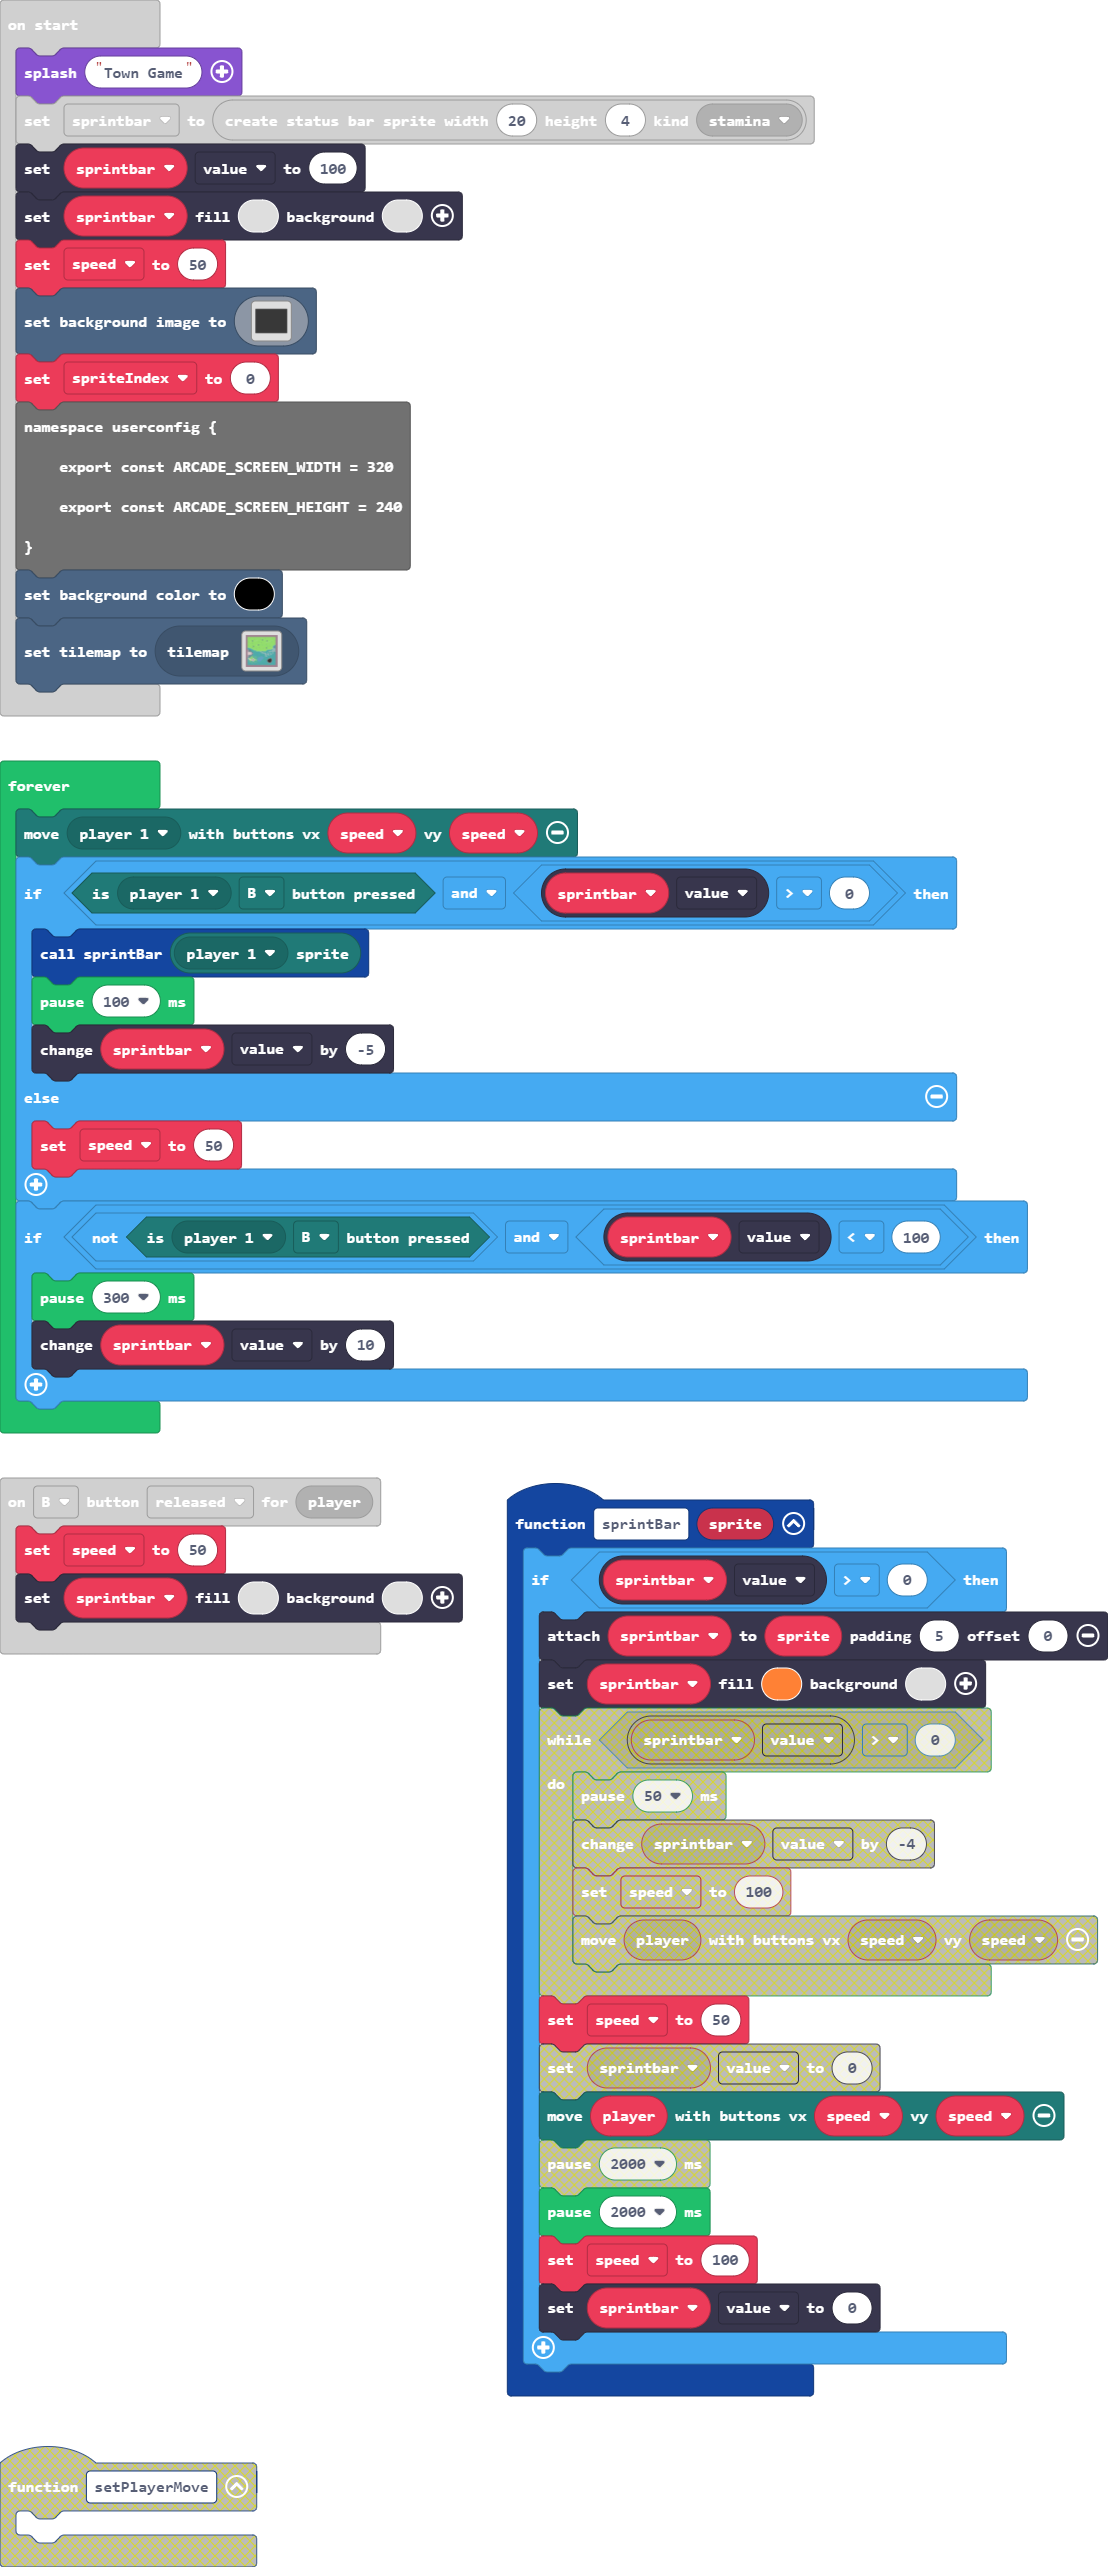
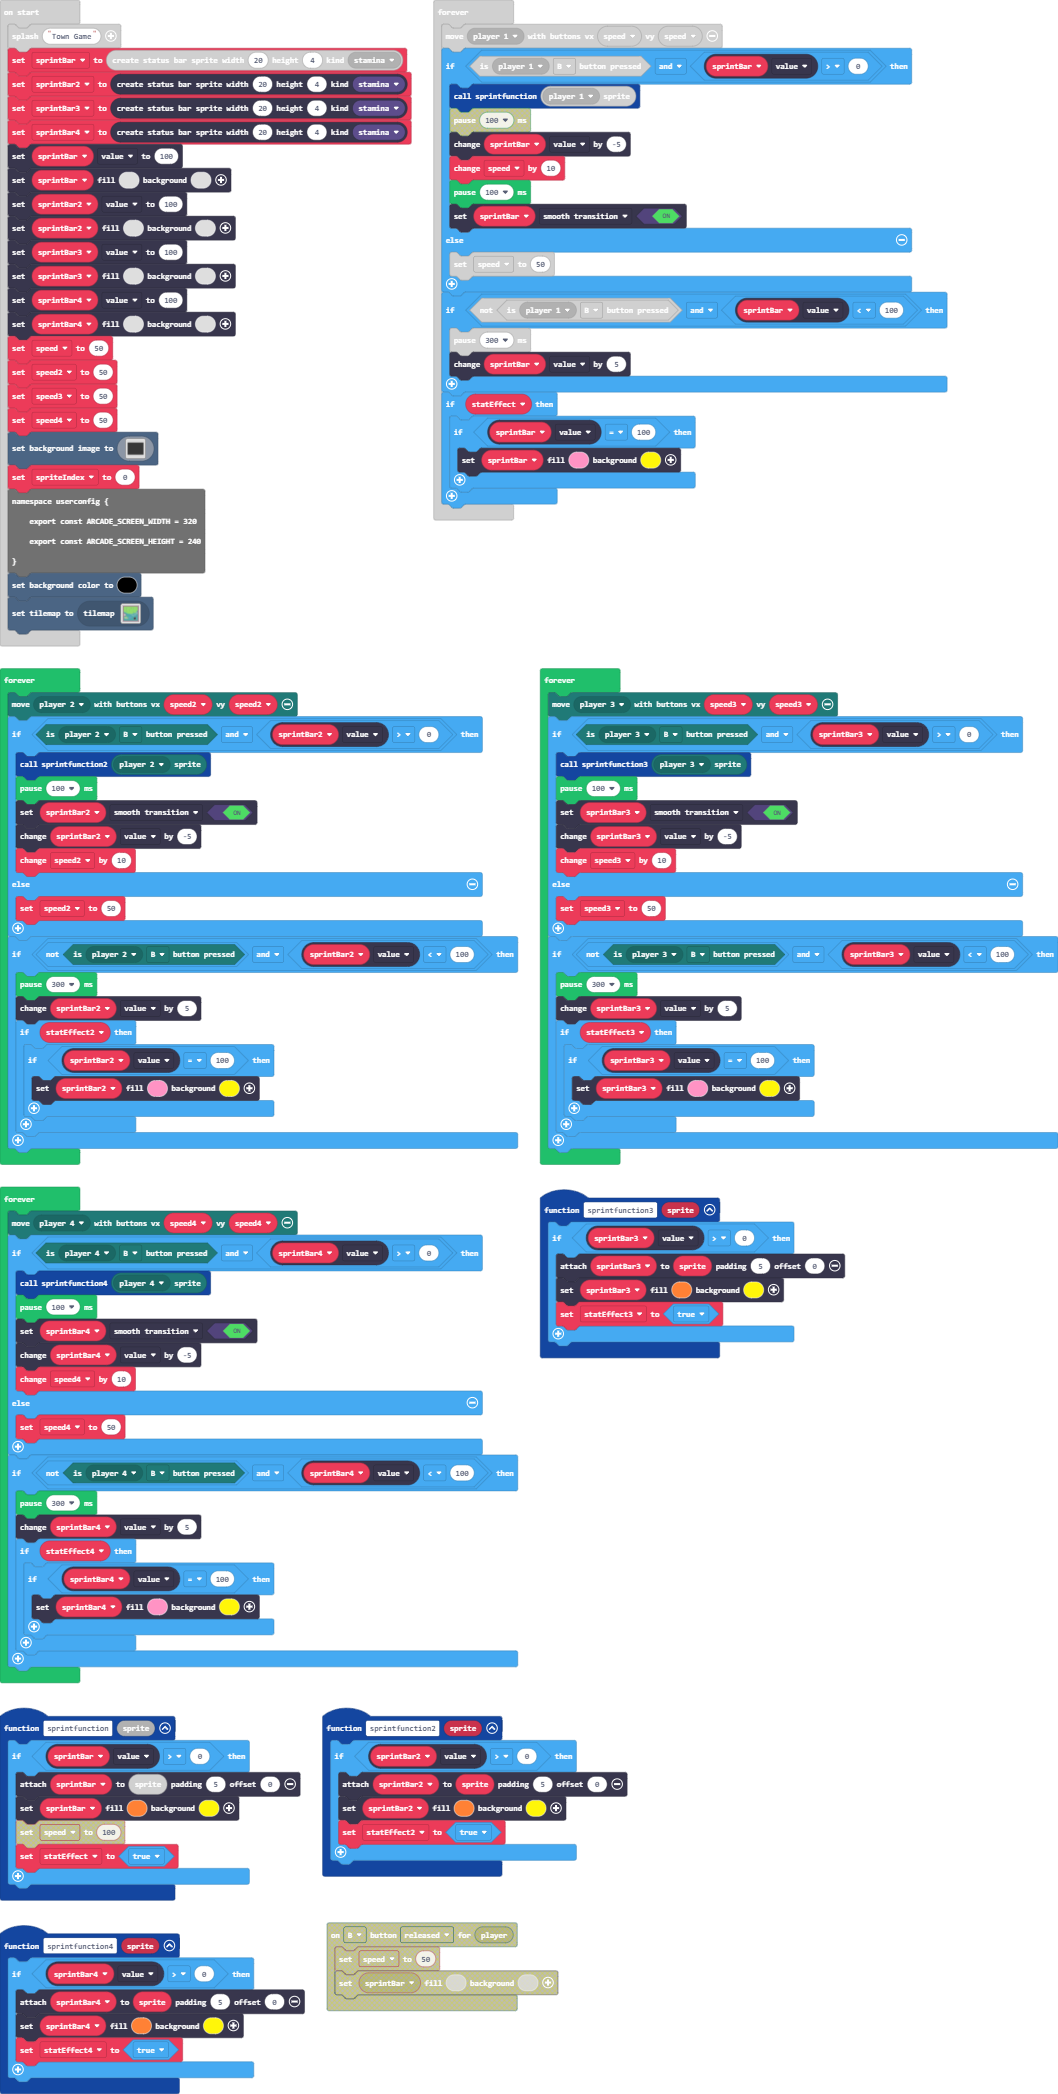
Perfected Stat Bar and applied it to all four players

diff --git a/main.ts b/main.ts
@@ -64,6 +64,27 @@ mp.onButtonEvent(mp.MultiplayerButton.Right, ControllerButtonEvent.Pressed, func
     true
     )
 })
+function sprintfunction2 (sprite: Sprite) {
+    if (sprintBar2.value > 0) {
+        sprintBar2.attachToSprite(sprite, 5, 0)
+        sprintBar2.setColor(4, 5)
+        statEffect2 = true
+    }
+}
+function sprintfunction (sprite: Sprite) {
+    if (sprintBar.value > 0) {
+        sprintBar.attachToSprite(sprite, 5, 0)
+        sprintBar.setColor(4, 5)
+        statEffect = true
+    }
+}
+function sprintfunction4 (sprite: Sprite) {
+    if (sprintBar4.value > 0) {
+        sprintBar4.attachToSprite(sprite, 5, 0)
+        sprintBar4.setColor(4, 5)
+        statEffect4 = true
+    }
+}
 mp.onButtonEvent(mp.MultiplayerButton.Down, ControllerButtonEvent.Pressed, function (player2) {
     animation.stopAnimation(animation.AnimationTypes.All, mp.getPlayerSprite(player2))
     animation.runImageAnimation(
@@ -123,10 +144,6 @@ mp.onButtonEvent(mp.MultiplayerButton.Down, ControllerButtonEvent.Pressed, funct
     200,
     true
     )
-})
-mp.onButtonEvent(mp.MultiplayerButton.B, ControllerButtonEvent.Released, function (player2) {
-    speed = 50
-    sprintbar.setColor(0, 0)
 })
 mp.onButtonEvent(mp.MultiplayerButton.Left, ControllerButtonEvent.Pressed, function (player2) {
     animation.stopAnimation(animation.AnimationTypes.All, mp.getPlayerSprite(player2))
@@ -188,6 +205,13 @@ mp.onButtonEvent(mp.MultiplayerButton.Left, ControllerButtonEvent.Pressed, funct
     true
     )
 })
+function sprintfunction3 (sprite: Sprite) {
+    if (sprintBar3.value > 0) {
+        sprintBar3.attachToSprite(sprite, 5, 0)
+        sprintBar3.setColor(4, 5)
+        statEffect3 = true
+    }
+}
 mp.onButtonEvent(mp.MultiplayerButton.Up, ControllerButtonEvent.Pressed, function (player2) {
     animation.stopAnimation(animation.AnimationTypes.All, mp.getPlayerSprite(player2))
     animation.runImageAnimation(
@@ -330,24 +354,35 @@ mp.onControllerEvent(ControllerEvent.Connected, function (player2) {
     currentPlayer = player2
     playerArray = mp.allPlayers()
 })
-function sprintBar (sprite: Sprite) {
-    if (sprintbar.value > 0) {
-        sprintbar.attachToSprite(sprite, 5, 0)
-        sprintbar.setColor(4, 0)
-        speed = 100
-    }
-}
 let playerArray: mp.Player[] = []
 let currentPlayer: mp.Player = null
 let playerSpriteList: Sprite[] = []
+let statEffect3 = false
+let statEffect4 = false
+let statEffect = false
+let statEffect2 = false
 let spriteIndex = 0
-let speed = 0
-let sprintbar: StatusBarSprite = null
+let sprintBar4: StatusBarSprite = null
+let sprintBar3: StatusBarSprite = null
+let sprintBar2: StatusBarSprite = null
+let sprintBar: StatusBarSprite = null
 game.splash("Town Game")
-sprintbar = statusbars.create(20, 4, StatusBarKind.stamina)
-sprintbar.value = 100
-sprintbar.setColor(0, 0)
-speed = 50
+sprintBar = statusbars.create(20, 4, StatusBarKind.stamina)
+sprintBar2 = statusbars.create(20, 4, StatusBarKind.stamina)
+sprintBar3 = statusbars.create(20, 4, StatusBarKind.stamina)
+sprintBar4 = statusbars.create(20, 4, StatusBarKind.stamina)
+sprintBar.value = 100
+sprintBar.setColor(0, 0)
+sprintBar2.value = 100
+sprintBar2.setColor(0, 0)
+sprintBar3.value = 100
+sprintBar3.setColor(0, 0)
+sprintBar4.value = 100
+sprintBar4.setColor(0, 0)
+let speed = 50
+let speed2 = 50
+let speed3 = 50
+let speed4 = 50
 scene.setBackgroundImage(img`
     ffffffffffffffffffffffffffffffffffffffffffffffffffffffffffffffffffffffffffffffffffffffffffffffffffffffffffffffffffffffffffffffffffffffffffffffffffffffffffffffff
     ffffffffffffffffffffffffffffffffffffffffffffffffffffffffffffffffffffffffffffffffffffffffffffffffffffffffffffffffffffffffffffffffffffffffffffffffffffffffffffffff
@@ -479,15 +514,85 @@ scene.setBackgroundColor(15)
 tiles.setCurrentTilemap(tilemap`Overworld`)
 forever(function () {
     mp.moveWithButtons(mp.playerSelector(mp.PlayerNumber.One), speed, speed)
-    if (mp.isButtonPressed(mp.playerSelector(mp.PlayerNumber.One), mp.MultiplayerButton.B) && sprintbar.value > 0) {
-        sprintBar(mp.getPlayerSprite(mp.playerSelector(mp.PlayerNumber.One)))
+    if (mp.isButtonPressed(mp.playerSelector(mp.PlayerNumber.One), mp.MultiplayerButton.B) && sprintBar.value > 0) {
+        sprintfunction(mp.getPlayerSprite(mp.playerSelector(mp.PlayerNumber.One)))
         pause(100)
-        sprintbar.value += -5
+        sprintBar.setStatusBarFlag(StatusBarFlag.SmoothTransition, true)
+        sprintBar.value += -5
+        speed += 10
     } else {
         speed = 50
     }
-    if (!(mp.isButtonPressed(mp.playerSelector(mp.PlayerNumber.One), mp.MultiplayerButton.B)) && sprintbar.value < 100) {
+    if (!(mp.isButtonPressed(mp.playerSelector(mp.PlayerNumber.One), mp.MultiplayerButton.B)) && sprintBar.value < 100) {
         pause(300)
-        sprintbar.value += 10
+        sprintBar.value += 5
+    }
+    if (statEffect) {
+        if (sprintBar.value == 100) {
+            sprintBar.setColor(3, 5)
+        }
+    }
+})
+forever(function () {
+    mp.moveWithButtons(mp.playerSelector(mp.PlayerNumber.Two), speed2, speed2)
+    if (mp.isButtonPressed(mp.playerSelector(mp.PlayerNumber.Two), mp.MultiplayerButton.B) && sprintBar2.value > 0) {
+        sprintfunction2(mp.getPlayerSprite(mp.playerSelector(mp.PlayerNumber.Two)))
+        pause(100)
+        sprintBar2.setStatusBarFlag(StatusBarFlag.SmoothTransition, true)
+        sprintBar2.value += -5
+        speed2 += 10
+    } else {
+        speed2 = 50
+    }
+    if (!(mp.isButtonPressed(mp.playerSelector(mp.PlayerNumber.Two), mp.MultiplayerButton.B)) && sprintBar2.value < 100) {
+        pause(300)
+        sprintBar2.value += 5
+        if (statEffect2) {
+            if (sprintBar2.value == 100) {
+                sprintBar2.setColor(3, 5)
+            }
+        }
+    }
+})
+forever(function () {
+    mp.moveWithButtons(mp.playerSelector(mp.PlayerNumber.Three), speed3, speed3)
+    if (mp.isButtonPressed(mp.playerSelector(mp.PlayerNumber.Three), mp.MultiplayerButton.B) && sprintBar3.value > 0) {
+        sprintfunction3(mp.getPlayerSprite(mp.playerSelector(mp.PlayerNumber.Three)))
+        pause(100)
+        sprintBar3.setStatusBarFlag(StatusBarFlag.SmoothTransition, true)
+        sprintBar3.value += -5
+        speed3 += 10
+    } else {
+        speed3 = 50
+    }
+    if (!(mp.isButtonPressed(mp.playerSelector(mp.PlayerNumber.Three), mp.MultiplayerButton.B)) && sprintBar3.value < 100) {
+        pause(300)
+        sprintBar3.value += 5
+        if (statEffect3) {
+            if (sprintBar3.value == 100) {
+                sprintBar3.setColor(3, 5)
+            }
+        }
+    }
+})
+forever(function () {
+    mp.moveWithButtons(mp.playerSelector(mp.PlayerNumber.Four), speed4, speed4)
+    if (mp.isButtonPressed(mp.playerSelector(mp.PlayerNumber.Four), mp.MultiplayerButton.B) && sprintBar4.value > 0) {
+        sprintfunction4(mp.getPlayerSprite(mp.playerSelector(mp.PlayerNumber.Four)))
+        pause(100)
+        sprintBar4.setStatusBarFlag(StatusBarFlag.SmoothTransition, true)
+        sprintBar4.value += -5
+        speed4 += 10
+    } else {
+        speed4 = 50
+    }
+    if (!(mp.isButtonPressed(mp.playerSelector(mp.PlayerNumber.Four), mp.MultiplayerButton.B)) && sprintBar4.value < 100) {
+        pause(300)
+        sprintBar4.value += 5
+        if (statEffect4) {
+            if (sprintBar4.value == 100) {
+                sprintBar4.setColor(3, 5)
+            }
+        }
     }
 })
